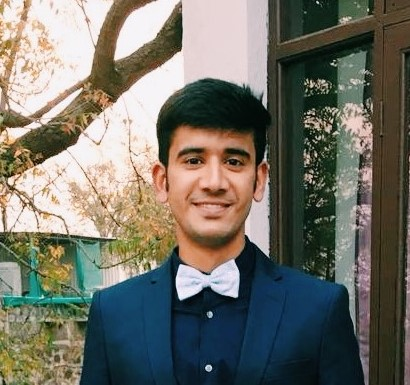
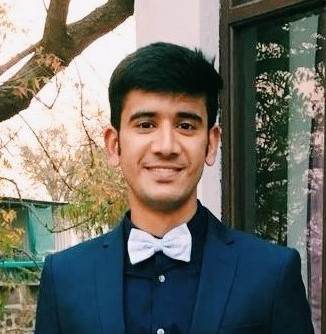
Updated About Us and improved landing page cover photo

diff --git a/index.html b/index.html
@@ -344,12 +344,13 @@
             <div class="card-body">
                 <img src="/img/my photo.jpg" class=" img-fluid rounded-circle" alt="Spaced Out team photo" id="team-photo">
                 <br><br>
-                <h5 class="card-title font-weight-normal">Team Spaced Out</h5>
+                <h5 class="card-title font-weight-normal">Pranav Palkar</h5>
                 <br>
-                <p class="card-text font-weight-light">Currently, Spaced Out is a one-man team determined to grow and develop with time and experience.
-                    <br><br> Pranav Palkar, the man behind it, is an indie Web Designer and a Udacity-certified Digital Marketer. He aims to make Spaced Out a go-to digital marketing team to get your business online quickly and do the marketing for you.
-                    He is excited to get involved in building experiences for the next billion people coming online for the first time and effectively marketing to them.He is passionate about spacetime and Android and can go hours talking over these two
-                    topics.
+                <p class="card-text font-weight-light">Currently, Spaced Out is a <span class="text-primary">one-man team</span> determined to grow and develop with time and experience.
+                    <br><br> Pranav is an <span class="text-primary">indie Web Designer</span> and a <span class="text-primary">Udacity-certified Digital Marketer</span>. He aims to make Spaced Out a go-to digital marketing hub to get your
+                    <span class="text-primary">small business online quickly</span> and do the marketing for you.<br><br> He is excited to get involved in building experiences for <span class="text-primary">the next billion people</span> coming online
+                    for the first time and <span class="text-primary">effectively
+                    marketing</span> to them.<br>He is passionate about <span class="text-primary">spacetime</span> and <span class="text-primary">Android</span> and can go hours talking over these two interests.
                 </p>
             </div>
         </div>
